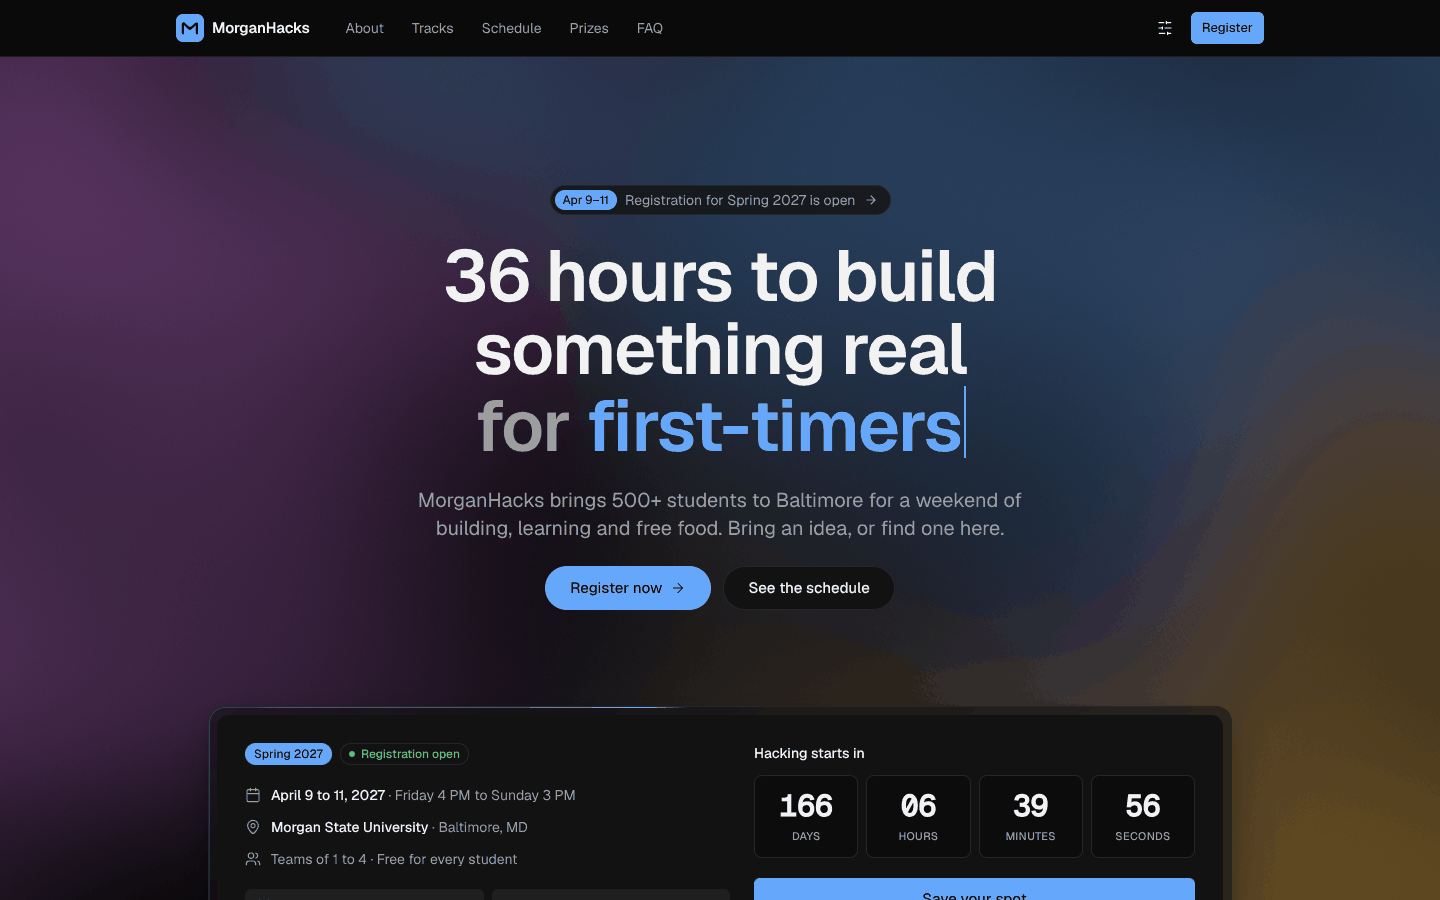
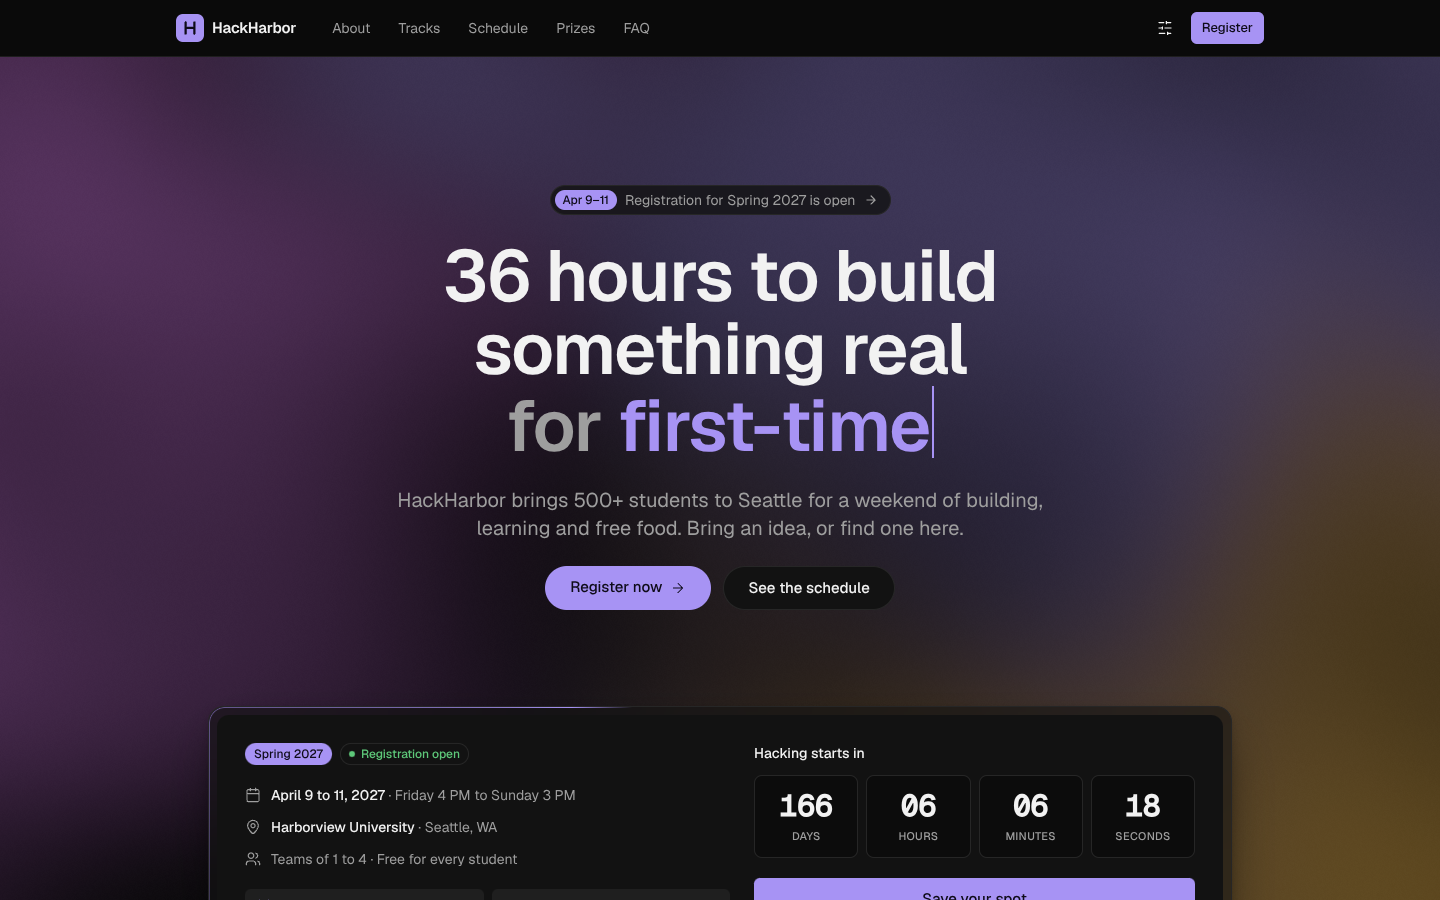
Rename the hackathon example to HackHarbor; surface examples on the home page
- The hackathon example is now HackHarbor, a fictional event at a
  made-up Harborview University in Seattle, with a violet accent and an
  H logo. No MorganHacks or Morgan State references remain. New
  screenshots.
- Home page: a 'See examples' hero button and a 'Built with Junco'
  section with all four examples.
- Phone header: an Examples link (the text nav is hidden below md).

diff --git a/examples/hackathon/src/home.tsx b/examples/hackathon/src/home.tsx
@@ -103,8 +103,8 @@ function EventTicket() {
           <p className="flex items-center gap-2.5">
             <MapPinIcon className="size-4 text-muted-foreground" />
             <span>
-              <strong className="font-medium">Morgan State University</strong>
-              <span className="text-muted-foreground"> · Baltimore, MD</span>
+              <strong className="font-medium">Harborview University</strong>
+              <span className="text-muted-foreground"> · Seattle, WA</span>
             </span>
           </p>
           <p className="flex items-center gap-2.5">
@@ -159,7 +159,7 @@ function HeroSection() {
         announcement={{ label: "Registration for Spring 2027 is open", href: "#/register", tag: "Apr 9–11" }}
         title="36 hours to build something real"
         rotatingWords={["first-timers", "designers", "engineers", "dreamers"]}
-        description="MorganHacks brings 500+ students to Baltimore for a weekend of building, learning and free food. Bring an idea, or find one here."
+        description="HackHarbor brings 500+ students to Seattle for a weekend of building, learning and free food. Bring an idea, or find one here."
         primaryAction={{ label: "Register now", href: "#/register" }}
         secondaryAction={{ label: "See the schedule", href: "#schedule" }}
         note={null}
@@ -255,7 +255,7 @@ function About() {
       id="about"
       eyebrow="Why come"
       title="Everything you need to ship, nothing you need to bring"
-      description="MorganHacks is run by students, for students. First hackathon? You're in good company: 40% of last year's hackers were too."
+      description="HackHarbor is run by students, for students. First hackathon? You're in good company: 40% of last year's hackers were too."
       variant="lines"
       columns={3}
       features={[
@@ -271,7 +271,7 @@ function About() {
 }
 
 function Reach() {
-  const arcs = origins.slice(1).map((o) => ({ from: { lat: o.lat, lng: o.lng }, to: { lat: origins[0]!.lat, lng: origins[0]!.lng }, label: `${o.label} to Baltimore` }));
+  const arcs = origins.slice(1).map((o) => ({ from: { lat: o.lat, lng: o.lng }, to: { lat: origins[0]!.lat, lng: origins[0]!.lng }, label: `${o.label} to Seattle` }));
   return (
     <Section className="overflow-hidden">
       <Container className="grid items-center gap-10 lg:grid-cols-2">
@@ -303,7 +303,7 @@ function Reach() {
             className="absolute inset-0"
             points={origins}
             arcs={arcs}
-            label="Globe showing where last year's hackers traveled from to Baltimore"
+            label="Globe showing where last year's hackers traveled from to Seattle"
             fallback={<GlobeFallback />}
           />
         </div>
@@ -469,13 +469,13 @@ export function HomePage() {
         eyebrow="FAQ"
         title="Questions, answered"
         items={faq}
-        contact={{ label: "Email the organizers", href: "mailto:team@morganhacks.example" }}
+        contact={{ label: "Email the organizers", href: "mailto:team@hackharbor.example" }}
       />
       <Separator className="mx-auto max-w-6xl" />
       <CtaSection
         title="Your seat is waiting"
         description="Registration closes March 26 or when we hit 500 hackers, whichever comes first."
-        primaryAction={{ label: "Register for MorganHacks", href: "#/register" }}
+        primaryAction={{ label: "Register for HackHarbor", href: "#/register" }}
         secondaryAction={{ label: "Read the FAQ", href: "#faq" }}
       />
     </>

diff --git a/examples/hackathon/src/data.ts b/examples/hackathon/src/data.ts
@@ -39,7 +39,7 @@ export const tracks: { id: TrackId; name: string; description: string; prize: st
   { id: "ai", name: "AI for good", description: "Use models responsibly to solve a real problem for a real community.", prize: "$3,000", sponsor: "Harbor AI" },
   { id: "fintech", name: "Fintech", description: "Help people save, budget, invest or send money with less friction.", prize: "$3,000", sponsor: "Quanta Bank" },
   { id: "health", name: "Health and wellness", description: "Tools for patients, caregivers and anyone trying to feel better.", prize: "$2,500", sponsor: "Lumen Health" },
-  { id: "civic", name: "Civic tech", description: "Make Baltimore easier to live in: transit, housing, voting, schools.", prize: "$2,500", sponsor: "Northwind" },
+  { id: "civic", name: "Civic tech", description: "Make Seattle easier to live in: transit, housing, voting, schools.", prize: "$2,500", sponsor: "Northwind" },
   { id: "climate", name: "Climate and energy", description: "Measure, reduce or adapt. Bonus points for using open data.", prize: "$2,500", sponsor: "Keystone Energy" },
   { id: "beginner", name: "First hack", description: "Never built at a hackathon? Ship anything. Mentors will pair with you.", prize: "$1,500", sponsor: "Brightline" },
 ];
@@ -109,12 +109,12 @@ export const faq = [
   { question: "Do I need a team?", answer: "No. Teams are 1 to 4 people, and the mixer on Friday night is built for finding one. You can also register as a team." },
   { question: "What should I bring?", answer: "A laptop, charger, ID, toiletries and a sleeping bag if you plan to stay overnight. We'll have a hardware lab with Arduinos, sensors and a 3D printer." },
   { question: "Can I start my project early?", answer: "You can brainstorm and learn ahead of time, but all code and design work must start after hacking begins on Friday at 8 PM." },
-  { question: "Is there a code of conduct?", answer: "Yes. We want MorganHacks to be welcoming for everyone, and every participant, mentor, sponsor and judge agrees to it at registration." },
+  { question: "Is there a code of conduct?", answer: "Yes. We want HackHarbor to be welcoming for everyone, and every participant, mentor, sponsor and judge agrees to it at registration." },
 ];
 
 /** Where last year's hackers came from, for the globe. */
 export const origins = [
-  { label: "Baltimore", lat: 39.29, lng: -76.61, size: 2.2 },
+  { label: "Seattle", lat: 47.61, lng: -122.33, size: 2.2 },
   { label: "Washington, DC", lat: 38.9, lng: -77.04 },
   { label: "Philadelphia", lat: 39.95, lng: -75.17 },
   { label: "New York", lat: 40.71, lng: -74.0 },
@@ -125,6 +125,7 @@ export const origins = [
   { label: "Chicago", lat: 41.88, lng: -87.63 },
   { label: "Toronto", lat: 43.65, lng: -79.38 },
   { label: "San Francisco", lat: 37.77, lng: -122.42 },
+  { label: "Portland", lat: 45.52, lng: -122.68 },
   { label: "London", lat: 51.5, lng: -0.12 },
   { label: "Accra", lat: 5.6, lng: -0.19 },
   { label: "Lagos", lat: 6.52, lng: 3.38 },

diff --git a/examples/hackathon/src/register.tsx b/examples/hackathon/src/register.tsx
@@ -77,7 +77,7 @@ function Success({ name, onReset }: { name: string; onReset: () => void }) {
       <Separator />
       <CardContent className="flex flex-wrap gap-3 p-6 sm:px-8">
         <Button asChild>
-          <a href="data:text/calendar;charset=utf-8,BEGIN:VCALENDAR%0AVERSION:2.0%0ABEGIN:VEVENT%0ASUMMARY:MorganHacks 2027%0ADTSTART:20270409T200000Z%0ADTEND:20270411T190000Z%0ALOCATION:Morgan State University, Baltimore MD%0AEND:VEVENT%0AEND:VCALENDAR" download="morganhacks-2027.ics">
+          <a href="data:text/calendar;charset=utf-8,BEGIN:VCALENDAR%0AVERSION:2.0%0ABEGIN:VEVENT%0ASUMMARY:HackHarbor 2027%0ADTSTART:20270409T200000Z%0ADTEND:20270411T190000Z%0ALOCATION:Harborview University, Seattle MD%0AEND:VEVENT%0AEND:VCALENDAR" download="hackharbor-2027.ics">
             <CalendarIcon className="size-4" />
             Add to calendar
           </a>
@@ -108,7 +108,7 @@ export function RegisterPage() {
       form.setError("root", { message: "That email is already registered. Check your inbox for the confirmation." });
       return;
     }
-    toast.success("You're registered for MorganHacks", { description: "See you in Baltimore on April 9." });
+    toast.success("You're registered for HackHarbor", { description: "See you in Seattle on April 9." });
     void confetti({ from: document.querySelector("form[aria-label=Registration] button[type=submit]") });
     setDone(values.name);
   }
@@ -123,12 +123,12 @@ export function RegisterPage() {
         <Reveal className="grid content-start gap-6">
           <a href="#/" className="inline-flex w-fit items-center gap-1.5 text-sm text-muted-foreground hover:text-foreground">
             <ArrowLeftIcon className="size-4" />
-            Back to MorganHacks
+            Back to HackHarbor
           </a>
           <div className="grid gap-3">
-            <h1 className="text-4xl font-semibold tracking-tighter text-balance sm:text-5xl">Register for MorganHacks 2027</h1>
+            <h1 className="text-4xl font-semibold tracking-tighter text-balance sm:text-5xl">Register for HackHarbor 2027</h1>
             <p className="text-lg text-pretty text-muted-foreground">
-              April 9 to 11 in Baltimore. Free for every student, and you don't need a team or an idea yet.
+              April 9 to 11 in Seattle. Free for every student, and you don't need a team or an idea yet.
             </p>
           </div>
           <ul className="grid gap-3">
@@ -223,7 +223,7 @@ export function RegisterPage() {
                   <FormField name="firstHackathon" label="This is my first hackathon">
                     <Switch />
                   </FormField>
-                  <FormField name="conduct" label="I agree to the MorganHacks code of conduct and photo policy" isRequired>
+                  <FormField name="conduct" label="I agree to the HackHarbor code of conduct and photo policy" isRequired>
                     <Checkbox />
                   </FormField>
                   <FormRootError />

diff --git a/apps/docs/app/page.tsx b/apps/docs/app/page.tsx
@@ -14,6 +14,8 @@ import {
   ShieldIcon,
 } from "@/components/icons";
 import { components } from "@/content/components";
+import { BrowserShot } from "@/components/examples/shot";
+import { getExamples } from "@/lib/examples";
 import { site } from "@/lib/site";
 
 const features = [
@@ -80,6 +82,9 @@ export default function Home() {
               </Link>
             </Button>
             <Button asChild size="lg" variant="outline">
+              <Link href="/examples/">See examples</Link>
+            </Button>
+            <Button asChild size="lg" variant="ghost">
               <Link href="/components/">Browse components</Link>
             </Button>
           </div>
@@ -87,6 +92,40 @@ export default function Home() {
             <InstallCommand command="npm i junco @junco/tailwind" />
           </div>
         </div>
+      </section>
+
+      {/* Built with Junco */}
+      <section aria-labelledby="built-with" className="mx-auto grid max-w-screen-xl gap-8 px-4 pt-20 md:px-6">
+        <div className="flex flex-wrap items-end justify-between gap-4">
+          <div className="grid max-w-2xl gap-3">
+            <h2 id="built-with" className="text-2xl font-semibold tracking-tight sm:text-3xl">
+              Built with Junco.
+            </h2>
+            <p className="text-muted-foreground">
+              Four complete projects made only from Junco: a SaaS app, a finance tracker, an event site and a plain-HTML status
+              page. Open any of them live.
+            </p>
+          </div>
+          <Button asChild variant="outline">
+            <Link href="/examples/">
+              All examples <ArrowRightIcon />
+            </Link>
+          </Button>
+        </div>
+        <ul className="grid gap-6 sm:grid-cols-2 lg:grid-cols-4">
+          {getExamples().map((ex) => (
+            <li key={ex.slug}>
+              <Link
+                href={`/examples/${ex.slug}/`}
+                className="group grid gap-3 rounded-card focus-visible:outline-2 focus-visible:outline-offset-4 focus-visible:outline-ring"
+              >
+                <BrowserShot light={ex.shots.light} dark={ex.shots.dark} alt={`${ex.title} screenshot`} className="transition-shadow duration-base group-hover:shadow-float" />
+                <span className="font-medium">{ex.title}</span>
+                <span className="-mt-2 text-sm text-pretty text-muted-foreground">{ex.tagline}</span>
+              </Link>
+            </li>
+          ))}
+        </ul>
       </section>
 
       {/* Four levels */}

diff --git a/examples/hackathon/index.html b/examples/hackathon/index.html
@@ -3,14 +3,14 @@
   <head>
     <meta charset="utf-8" />
     <meta name="viewport" content="width=device-width, initial-scale=1" />
-    <title>MorganHacks 2027: 36 hours to build something real</title>
-    <meta name="description" content="MorganHacks is a 36-hour student hackathon in Baltimore. Free to attend, open to every major. A Junco example." />
+    <title>HackHarbor 2027: 36 hours to build something real</title>
+    <meta name="description" content="HackHarbor is a 36-hour student hackathon in Seattle. Free to attend, open to every major. A Junco example." />
     <link rel="preconnect" href="https://fonts.googleapis.com" />
     <link rel="preconnect" href="https://fonts.gstatic.com" crossorigin />
     <link href="https://fonts.googleapis.com/css2?family=Geist:wght@400;500;600;700&family=Geist+Mono:wght@400;500&display=swap" rel="stylesheet" />
     <!-- Same as junco's themeScript(): applies the saved theme before first paint. -->
     <script>
-      (function(k,t,m){try{var s=localStorage;t=s.getItem(k+"-theme")||t;m=s.getItem(k+"-motion")||m}catch(e){}var d=t==="dark"||(t==="system"&&matchMedia("(prefers-color-scheme: dark)").matches),r=d?"dark":"light",e=document.documentElement;e.classList.toggle("dark",d);e.dataset.theme=r;e.dataset.motion=m;e.style.colorScheme=r})("morganhacks","system","full")
+      (function(k,t,m){try{var s=localStorage;t=s.getItem(k+"-theme")||t;m=s.getItem(k+"-motion")||m}catch(e){}var d=t==="dark"||(t==="system"&&matchMedia("(prefers-color-scheme: dark)").matches),r=d?"dark":"light",e=document.documentElement;e.classList.toggle("dark",d);e.dataset.theme=r;e.dataset.motion=m;e.style.colorScheme=r})("hackharbor","system","full")
     </script>
   </head>
   <body>

diff --git a/examples/hackathon/src/index.css b/examples/hackathon/src/index.css
@@ -7,19 +7,19 @@
 @source "../node_modules/@junco/motion/dist";
 @source "../node_modules/@junco/three/dist";
 
-/* MorganHacks brand: Morgan State blue as the accent. One variable re-themes everything. */
+/* HackHarbor brand: Harbor violet as the accent. One variable re-themes everything. */
 :root {
-  --primary: oklch(0.5 0.17 258);
-  --ring: oklch(0.5 0.17 258);
-  --chart-1: oklch(0.5 0.17 258);
+  --primary: oklch(0.5 0.17 292);
+  --ring: oklch(0.5 0.17 292);
+  --chart-1: oklch(0.5 0.17 292);
   --chart-2: oklch(0.72 0.15 75);
 }
 .dark,
 [data-theme="dark"] {
-  --primary: oklch(0.72 0.14 255);
-  --primary-foreground: oklch(0.16 0.03 258);
-  --ring: oklch(0.72 0.14 255);
-  --chart-1: oklch(0.72 0.14 255);
+  --primary: oklch(0.72 0.14 292);
+  --primary-foreground: oklch(0.16 0.03 292);
+  --ring: oklch(0.72 0.14 292);
+  --chart-1: oklch(0.72 0.14 292);
   --chart-2: oklch(0.8 0.14 80);
 }
 

diff --git a/examples/hackathon/src/shell.tsx b/examples/hackathon/src/shell.tsx
@@ -117,7 +117,7 @@ export function DisplaySettings() {
 }
 
 const brand = {
-  name: "MorganHacks",
+  name: "HackHarbor",
   href: "#/",
   logo: <LogoMark className="size-7" />,
 };
@@ -138,12 +138,12 @@ export function Footer() {
   return (
     <SiteFooter
       brand={brand}
-      tagline="A 36-hour student hackathon in Baltimore. Free, beginner friendly, open to every major."
+      tagline="A 36-hour student hackathon in Seattle. Free, beginner friendly, open to every major."
       columns={footerColumns}
       status={null}
       legal={
         <>
-          © 2027 MorganHacks. An example site built with{" "}
+          © 2027 HackHarbor. An example site built with{" "}
           <a href="https://junco.madebytobi.com" className="underline underline-offset-4 hover:text-foreground">
             Junco
           </a>

diff --git a/apps/docs/content/nav.ts b/apps/docs/content/nav.ts
@@ -30,7 +30,7 @@ export const explore: NavItem[] = [
   { title: "Blocks and pages", href: "/blocks/", keywords: "templates landing dashboard pricing auth settings sections @junco/blocks" },
   { title: "Motion", href: "/motion/", keywords: "animation reveal marquee ticker typewriter spotlight confetti view transitions @junco/motion" },
   { title: "3D", href: "/3d/", keywords: "three webgl globe particles shader gradient model viewer tilt @junco/three" },
-  { title: "Examples", href: "/examples/", keywords: "showcase demo projects pulse ledger morganhacks hackathon status page saas finance" },
+  { title: "Examples", href: "/examples/", keywords: "showcase demo projects pulse ledger hackharbor hackathon status page saas finance" },
 ];
 
 export const nav: NavSection[] = [

diff --git a/apps/docs/components/site-header.tsx b/apps/docs/components/site-header.tsx
@@ -60,6 +60,13 @@ export function SiteHeader() {
           })}
         </nav>
         <div className="ml-auto flex items-center gap-1">
+          <Link
+            href="/examples/"
+            aria-current={pathname.startsWith("/examples") ? "page" : undefined}
+            className="rounded-control px-2 py-1.5 text-sm text-muted-foreground hover:text-foreground focus-visible:outline-2 focus-visible:outline-offset-2 focus-visible:outline-ring aria-[current=page]:text-foreground md:hidden"
+          >
+            Examples
+          </Link>
           <SearchButton className="md:w-40 lg:w-56" />
           <Tooltip content="GitHub">
             <Button asChild variant="ghost" size="icon">

diff --git a/examples/hackathon/src/icons.tsx b/examples/hackathon/src/icons.tsx
@@ -107,13 +107,13 @@ export const GraduationIcon = make(
   </>,
 );
 
-/** The MorganHacks mark: a bear-ish "M" monogram in a rounded square. */
+/** The HackHarbor mark: an "H" monogram in a rounded square. */
 export function LogoMark(props: IconProps) {
   return (
     <svg viewBox="0 0 32 32" aria-hidden focusable={false} {...props}>
       <rect width="32" height="32" rx="8" fill="var(--primary)" />
       <path
-        d="M8 22V11.5c0-.6.7-.9 1.1-.5L16 17l6.9-6c.4-.4 1.1-.1 1.1.5V22"
+        d="M11 9.5v13M21 9.5v13M11 16h10"
         fill="none"
         stroke="var(--primary-foreground)"
         strokeWidth="2.6"

diff --git a/examples/hackathon/src/main.tsx b/examples/hackathon/src/main.tsx
@@ -32,7 +32,7 @@ function App() {
 
 createRoot(document.getElementById("root")!).render(
   <StrictMode>
-    <ThemeProvider storageKey="morganhacks">
+    <ThemeProvider storageKey="hackharbor">
       <TooltipProvider>
         <App />
       </TooltipProvider>

diff --git a/examples/hackathon/README.md b/examples/hackathon/README.md
@@ -1,6 +1,6 @@
-# MorganHacks: a hackathon site built with Junco
+# HackHarbor: a hackathon site built with Junco
 
-A complete event website for a 36-hour student hackathon in Baltimore: hero with a live countdown, sponsors, tracks, a 3D globe of where hackers come from, the schedule by day, prizes, judges, FAQ and a registration form.
+A complete event website for a 36-hour student hackathon in Seattle: hero with a live countdown, sponsors, tracks, a 3D globe of where hackers come from, the schedule by day, prizes, judges, FAQ and a registration form.
 
 Sponsors, judges and numbers are invented for the example.
 
@@ -26,7 +26,7 @@ pnpm --filter @junco/example-hackathon dev
 | `junco` | `Tabs` (schedule), `Badge`, `Avatar`, `Card`, `Popover` + `Tooltip` (display settings), `Toaster` / `toast()` |
 | `junco/form` | `Form`, `FormField`, `FormSubmit`, `FormRootError` with a Zod schema: inputs, two selects, a radio group, a switch and a required checkbox |
 
-The accent is Morgan State blue, set once in `src/index.css` by overriding `--primary`. Theme and motion (full, subtle, off) live in the sliders popover in the header.
+The accent is Harbor violet, set once in `src/index.css` by overriding `--primary`. Theme and motion (full, subtle, off) live in the sliders popover in the header.
 
 Routing is hash-based (`#/register`, plus `#tracks`-style section anchors), so the built site works from any subfolder: `vite.config.ts` sets `base: "./"`.
 
